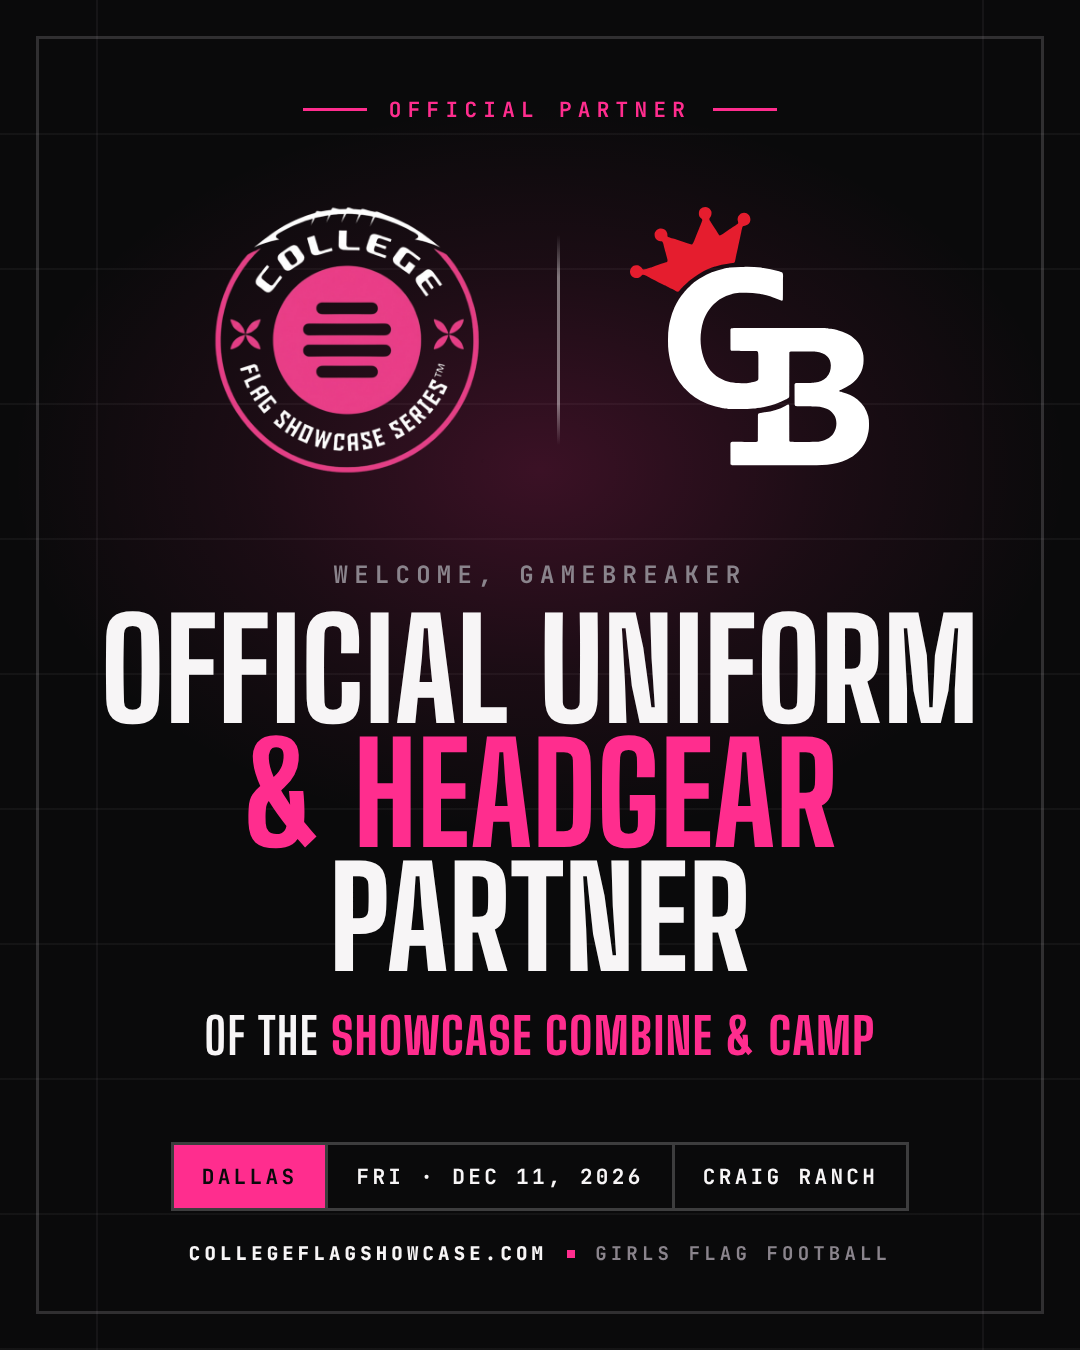
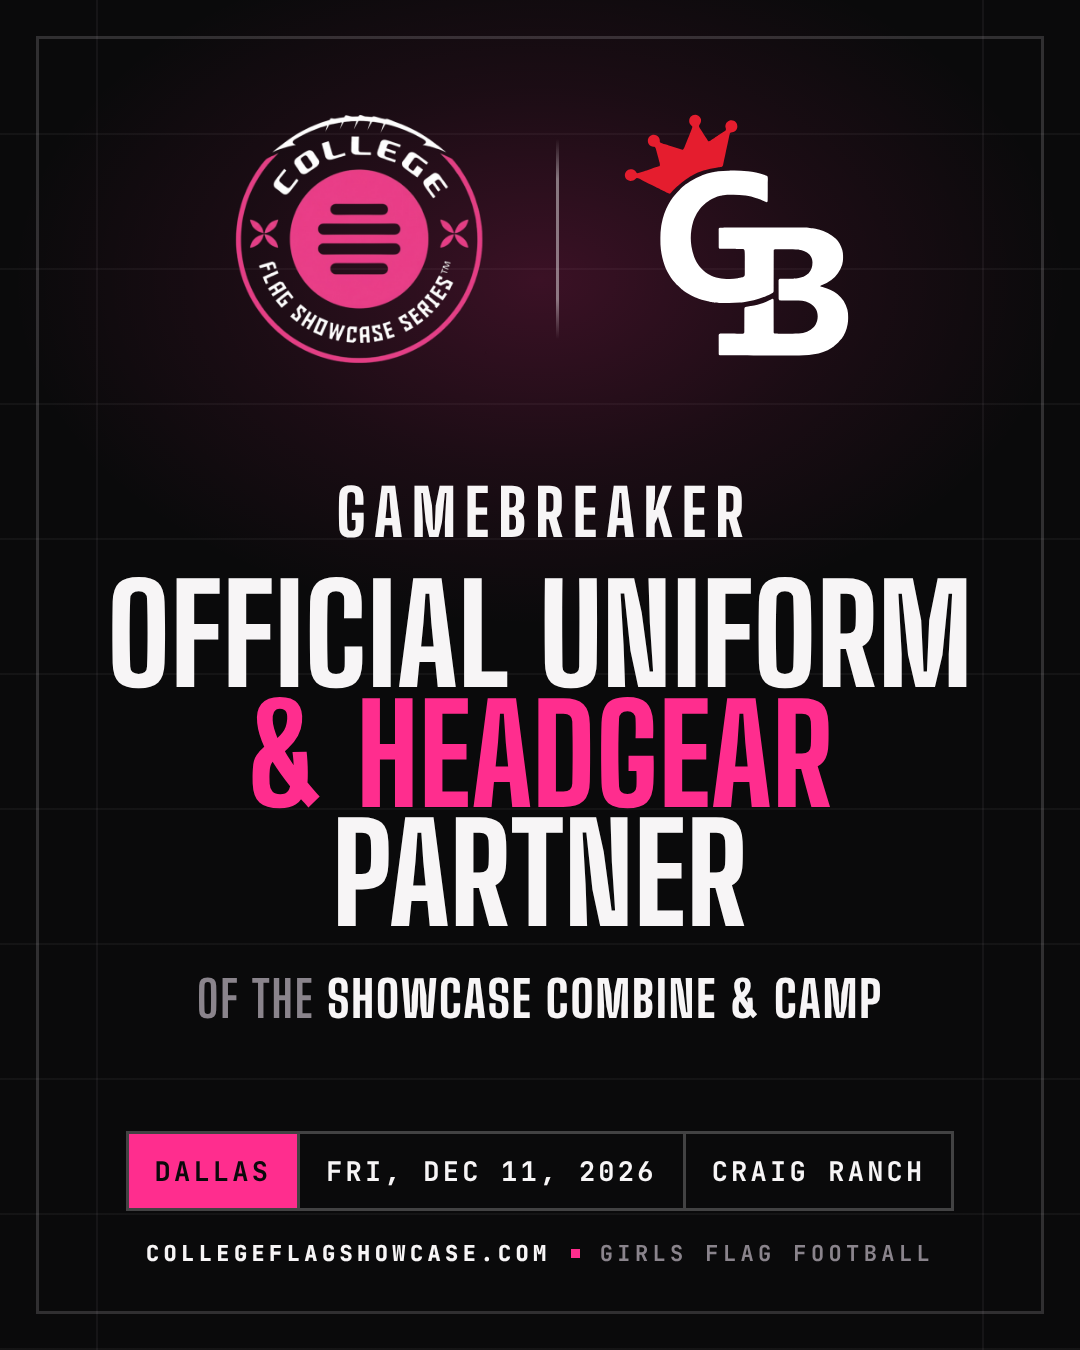
Gamebreaker partner graphic: rework type hierarchy for phone legibility
Claude-Session: https://claude.ai/code/session_019V32boShoBmRrwWenCPJFc

Changed region(s): [[0.0917, 0.0622, 0.9167, 0.7778], [0.0917, 0.84, 0.8861, 0.9333], [0.6722, 0.0622, 0.7028, 0.0933]]

diff --git a/collateral/ig-partner-gamebreaker.html b/collateral/ig-partner-gamebreaker.html
@@ -30,33 +30,33 @@
   .hash{position:absolute;top:0;bottom:0;width:2px;background:rgba(247,245,246,.05)}
   .hash.l{left:96px}.hash.r{right:96px}
   /* pink glow behind the lockup */
-  .glow{position:absolute;left:50%;top:470px;width:1100px;height:760px;transform:translate(-50%,-50%);background:radial-gradient(ellipse at center,rgba(255,45,142,.20) 0%,rgba(255,45,142,.07) 38%,transparent 68%)}
+  .glow{position:absolute;left:50%;top:280px;width:1100px;height:720px;transform:translate(-50%,-50%);background:radial-gradient(ellipse at center,rgba(255,45,142,.20) 0%,rgba(255,45,142,.07) 38%,transparent 68%)}
   .frame{position:absolute;inset:36px;border:3px solid rgba(247,245,246,.16)}
 
-  .inner{position:absolute;inset:0;display:flex;flex-direction:column;align-items:center;text-align:center;padding:96px 100px 84px}
+  /* Type scale, tuned for phone viewing (a 1080px post shows at ~1/3 size):
+     H1 136 > partner name 64 > event line 50 > info bar 27 > footer 22.
+     Nothing under 22px; pink only on the role words + the city chip. */
+  .inner{position:absolute;inset:0;display:flex;flex-direction:column;align-items:center;text-align:center;padding:104px 100px 82px}
 
-  .kicker{font-family:var(--mono);font-size:21px;font-weight:700;letter-spacing:.3em;text-transform:uppercase;color:var(--red);display:flex;align-items:center;gap:22px}
-  .kicker::before,.kicker::after{content:"";width:64px;height:3px;background:var(--red)}
+  .lockup{flex-shrink:0;display:flex;align-items:center;justify-content:center;gap:64px;height:270px}
+  .cfs-logo{width:262px;height:262px}
+  .divider{width:3px;height:200px;background:linear-gradient(to bottom,transparent,rgba(247,245,246,.45) 20%,rgba(247,245,246,.45) 80%,transparent)}
+  .gb-logo{height:244px;width:auto;transform:translateY(-4px)}
 
-  .lockup{margin-top:72px;display:flex;align-items:center;justify-content:center;gap:68px;height:290px}
-  .cfs-logo{width:280px;height:280px}
-  .divider{width:3px;height:210px;background:linear-gradient(to bottom,transparent,rgba(247,245,246,.45) 20%,rgba(247,245,246,.45) 80%,transparent)}
-  .gb-logo{height:262px;width:auto;transform:translateY(-4px)}
-
-  .label{margin-top:74px;font-family:var(--mono);font-size:24px;font-weight:700;letter-spacing:.26em;text-transform:uppercase;color:var(--steel)}
-  h1{margin-top:18px;font-family:var(--display);font-weight:800;text-transform:uppercase;line-height:.9;letter-spacing:.005em;font-size:138px}
+  .name{margin-top:auto;font-family:var(--display);font-weight:800;font-size:64px;line-height:1;letter-spacing:.14em;text-transform:uppercase;color:var(--chalk);padding-left:.14em}
+  h1{margin-top:30px;font-family:var(--display);font-weight:800;text-transform:uppercase;line-height:.88;letter-spacing:.005em;font-size:136px;white-space:nowrap}
   h1 em{font-style:normal;color:var(--red)}
-  .of{margin-top:30px;font-family:var(--display);font-weight:700;text-transform:uppercase;font-size:50px;letter-spacing:.03em;line-height:1}
-  .of b{color:var(--red);font-weight:800}
+  .of{margin-top:40px;font-family:var(--display);text-transform:uppercase;font-size:50px;letter-spacing:.04em;line-height:1;font-weight:800;color:var(--chalk)}
+  .of span{font-weight:700;color:var(--steel)}
 
-  .bar{margin-top:auto;display:flex;align-items:stretch;border:3px solid rgba(247,245,246,.22)}
-  .bar span{padding:18px 28px;font-family:var(--mono);font-size:21px;font-weight:700;letter-spacing:.16em;text-transform:uppercase;white-space:nowrap}
-  .bar span + span{border-left:3px solid rgba(247,245,246,.22)}
+  .bar{margin-top:auto;margin-bottom:0;display:flex;align-items:stretch;border:3px solid rgba(247,245,246,.24)}
+  .bar span{padding:19px 26px;font-family:var(--mono);font-size:27px;font-weight:700;letter-spacing:.12em;text-transform:uppercase;white-space:nowrap}
+  .bar span + span{border-left:3px solid rgba(247,245,246,.24)}
   .bar .hot{background:var(--red);color:var(--navy)}
 
-  .foot{margin-top:30px;display:flex;align-items:center;gap:20px;font-family:var(--mono);font-size:19px;font-weight:700;letter-spacing:.22em;text-transform:uppercase;color:var(--steel)}
+  .foot{margin-top:28px;display:flex;align-items:center;gap:20px;font-family:var(--mono);font-size:22px;font-weight:700;letter-spacing:.2em;text-transform:uppercase;color:var(--steel)}
   .foot b{color:var(--chalk)}
-  .foot i{width:8px;height:8px;background:var(--red);display:inline-block}
+  .foot i{width:9px;height:9px;background:var(--red);display:inline-block}
 </style>
 </head>
 <body>
@@ -66,21 +66,19 @@
   <div class="glow"></div>
   <div class="frame"></div>
   <div class="inner">
-    <p class="kicker">Official Partner</p>
-
     <div class="lockup">
       <img class="cfs-logo" src="../public/logo.png" alt="College Flag Showcase Series" />
       <span class="divider"></span>
       <img class="gb-logo" src="partners/gamebreaker-reversed.svg" alt="Gamebreaker" />
     </div>
 
-    <p class="label">Welcome, Gamebreaker</p>
-    <h1>Official Uniform<br><em>&amp; Headgear</em> Partner</h1>
-    <p class="of">of the <b>Showcase Combine &amp; Camp</b></p>
+    <p class="name">Gamebreaker</p>
+    <h1>Official Uniform<br><em>&amp; Headgear</em><br>Partner</h1>
+    <p class="of"><span>of the</span> Showcase Combine &amp; Camp</p>
 
     <div class="bar">
       <span class="hot">Dallas</span>
-      <span>Fri &middot; Dec 11, 2026</span>
+      <span>Fri, Dec 11, 2026</span>
       <span>Craig Ranch</span>
     </div>
 
